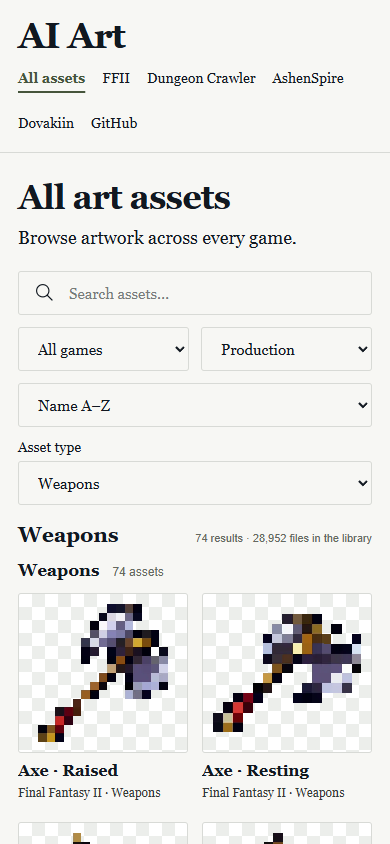
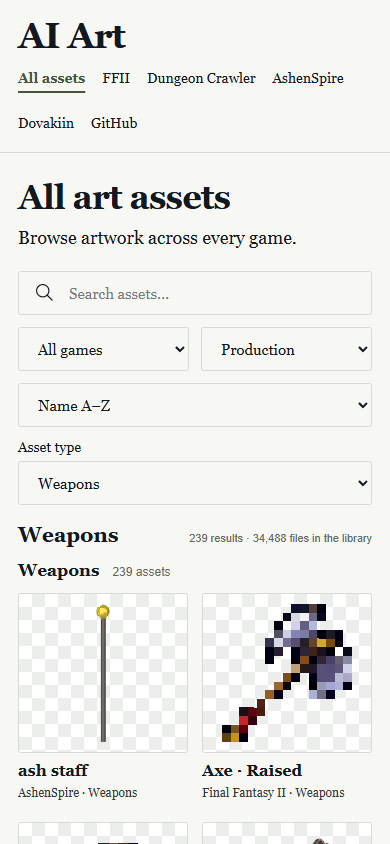
Publish the complete catalog with efficient Git-backed builds

diff --git a/docs/verification.md b/docs/verification.md
@@ -1,12 +1,12 @@
 # Catalog verification
 
-The combined catalog preserves game source snapshots in `Games/`. Before publication, 32,588 files (6,351,797,788 bytes) were verified against source Git blobs, byte lengths and SHA-256 records. The initial snapshot is preserved in commit `64d3eddc803c980a9e3b1fbff31f6b65e345162c`; reviewed updates record their previous source and catalog commits.
+The combined catalog preserves game source snapshots in `Games/`. Before publication, 39,721 files (9,570,687,806 bytes) were verified against source Git blobs, byte lengths and SHA-256 records. The initial snapshot is preserved in commit `64d3eddc803c980a9e3b1fbff31f6b65e345162c`; reviewed updates record their previous source and catalog commits.
 
 | Game | Source commit | Files |
 | --- | --- | ---: |
 | Final Fantasy II | faa286eef99510b5bb6e84c2f40f262ae0296a3b | 3,823 |
 | Dungeon Crawler | 4aab2055cdfbd2ff0d6955d082007ecee0e6cb5b | 4,746 |
-| AshenSpire | 833390031af747e65eb81e197ba6be8c01d90804 | 23,961 |
+| AshenSpire | e71ff1f23d95da84deede90907f2f28f7aedb55a | 31,094 |
 | Dovakiin | 4f2269a339b3e01a16eb43092acc77307b08017e | 58 |
 
 The site build generates thumbnails only; full source files are retained in Git and linked at their pinned upstream commit. Transparent preview padding is trimmed mechanically. Opaque backgrounds are preserved. Original pixels, dimensions, metadata and rights records are unchanged.
@@ -28,4 +28,6 @@ Intentional functional additions: measured category/result counts, category sect
 
 Browser interaction outcomes and screenshots are recorded in `design/browser-qa.json`, `design/catalog-desktop.png`, and `design/catalog-mobile.png`. No claim of Unity/game runtime verification is made by this catalog.
 
-Final local result: 28,952 catalog entries across all four games, 25,296 unique image previews, zero preview-generation warnings, nine pipeline tests passed and all browser checks passed. The catalog preserves duplicate source paths as separate records. Final previews and metadata total approximately 517 MB, versus 6.35 GB of originals. Desktop and mobile screenshots were inspected against the concept; no unresolved layout, overflow or image-loading issue remained in the tested flows.
+Final local result: 34,488 catalog entries across all four games, 29,659 unique image previews, zero preview-generation warnings, ten pipeline tests passed and all browser checks passed. The catalog preserves duplicate source paths as separate records. Final previews and metadata total approximately 594 MB, versus 9.57 GB of originals. Desktop and mobile screenshots were inspected against the concept; no unresolved layout, overflow or image-loading issue remained in the tested flows.
+
+CI uses a shallow checkout with only catalog code and snapshot inventories in the worktree. Verification reads the committed original blobs directly from Git and validates path sets, modes, bytes, blob IDs and SHA-256 against inventories. The build reads those same blobs for thumbnails and manifest metadata. A real sparse-checkout test verifies that Git-backed and filesystem builds produce identical catalog and preview bytes. Local snapshot imports additionally verify the upstream source trees.

diff --git a/README.md b/README.md
@@ -36,6 +36,8 @@ npm run serve
 
 Open `http://127.0.0.1:4173/AI-Art/`. `_site/` contains the generated Pages site and is excluded from Git. Snapshot originals stay in `Games/`; the site serves previews and links to commit-pinned originals.
 
+GitHub Actions uses a sparse checkout and `npm run verify -- --git` / `npm run build -- --git`. This reads original blobs from Git without creating another full-size artwork copy in the runner's working directory. Local builds can use either mode; commit snapshot changes before using Git-backed verification.
+
 ## Refresh the collection
 
 Fetch the source branches, verify and commit your current snapshot first, then run the reviewed update:
@@ -55,8 +57,9 @@ After committing a verified snapshot update, connect the imported source histori
 
 ```sh
 git merge --no-ff --strategy=ours origin/ff2 origin/dungeon-crawler origin/ashenspire origin/Dovakiin
+git -c pack.useSparse=false -c pack.allowPackReuse=false -c push.useBitmaps=false -c push.negotiate=true push origin dev
 ```
 
-This records the game commits as parents while preserving the already verified `Games/` layout. It avoids re-uploading gigabytes of artwork GitHub already has; it does not replace the snapshot importer or its verification.
+This records the game commits as parents while preserving the already verified `Games/` layout. The scoped push settings use a full object walk so moving the source trees under `Games/` does not cause gigabytes of redundant uploads. These steps do not replace the snapshot importer or its verification. Promote the reviewed `dev` commit to `main` separately to publish it.
 
 [Design reference and visual checks](docs/design/spec.md) · [Original repository index](docs/repository-index.md)
